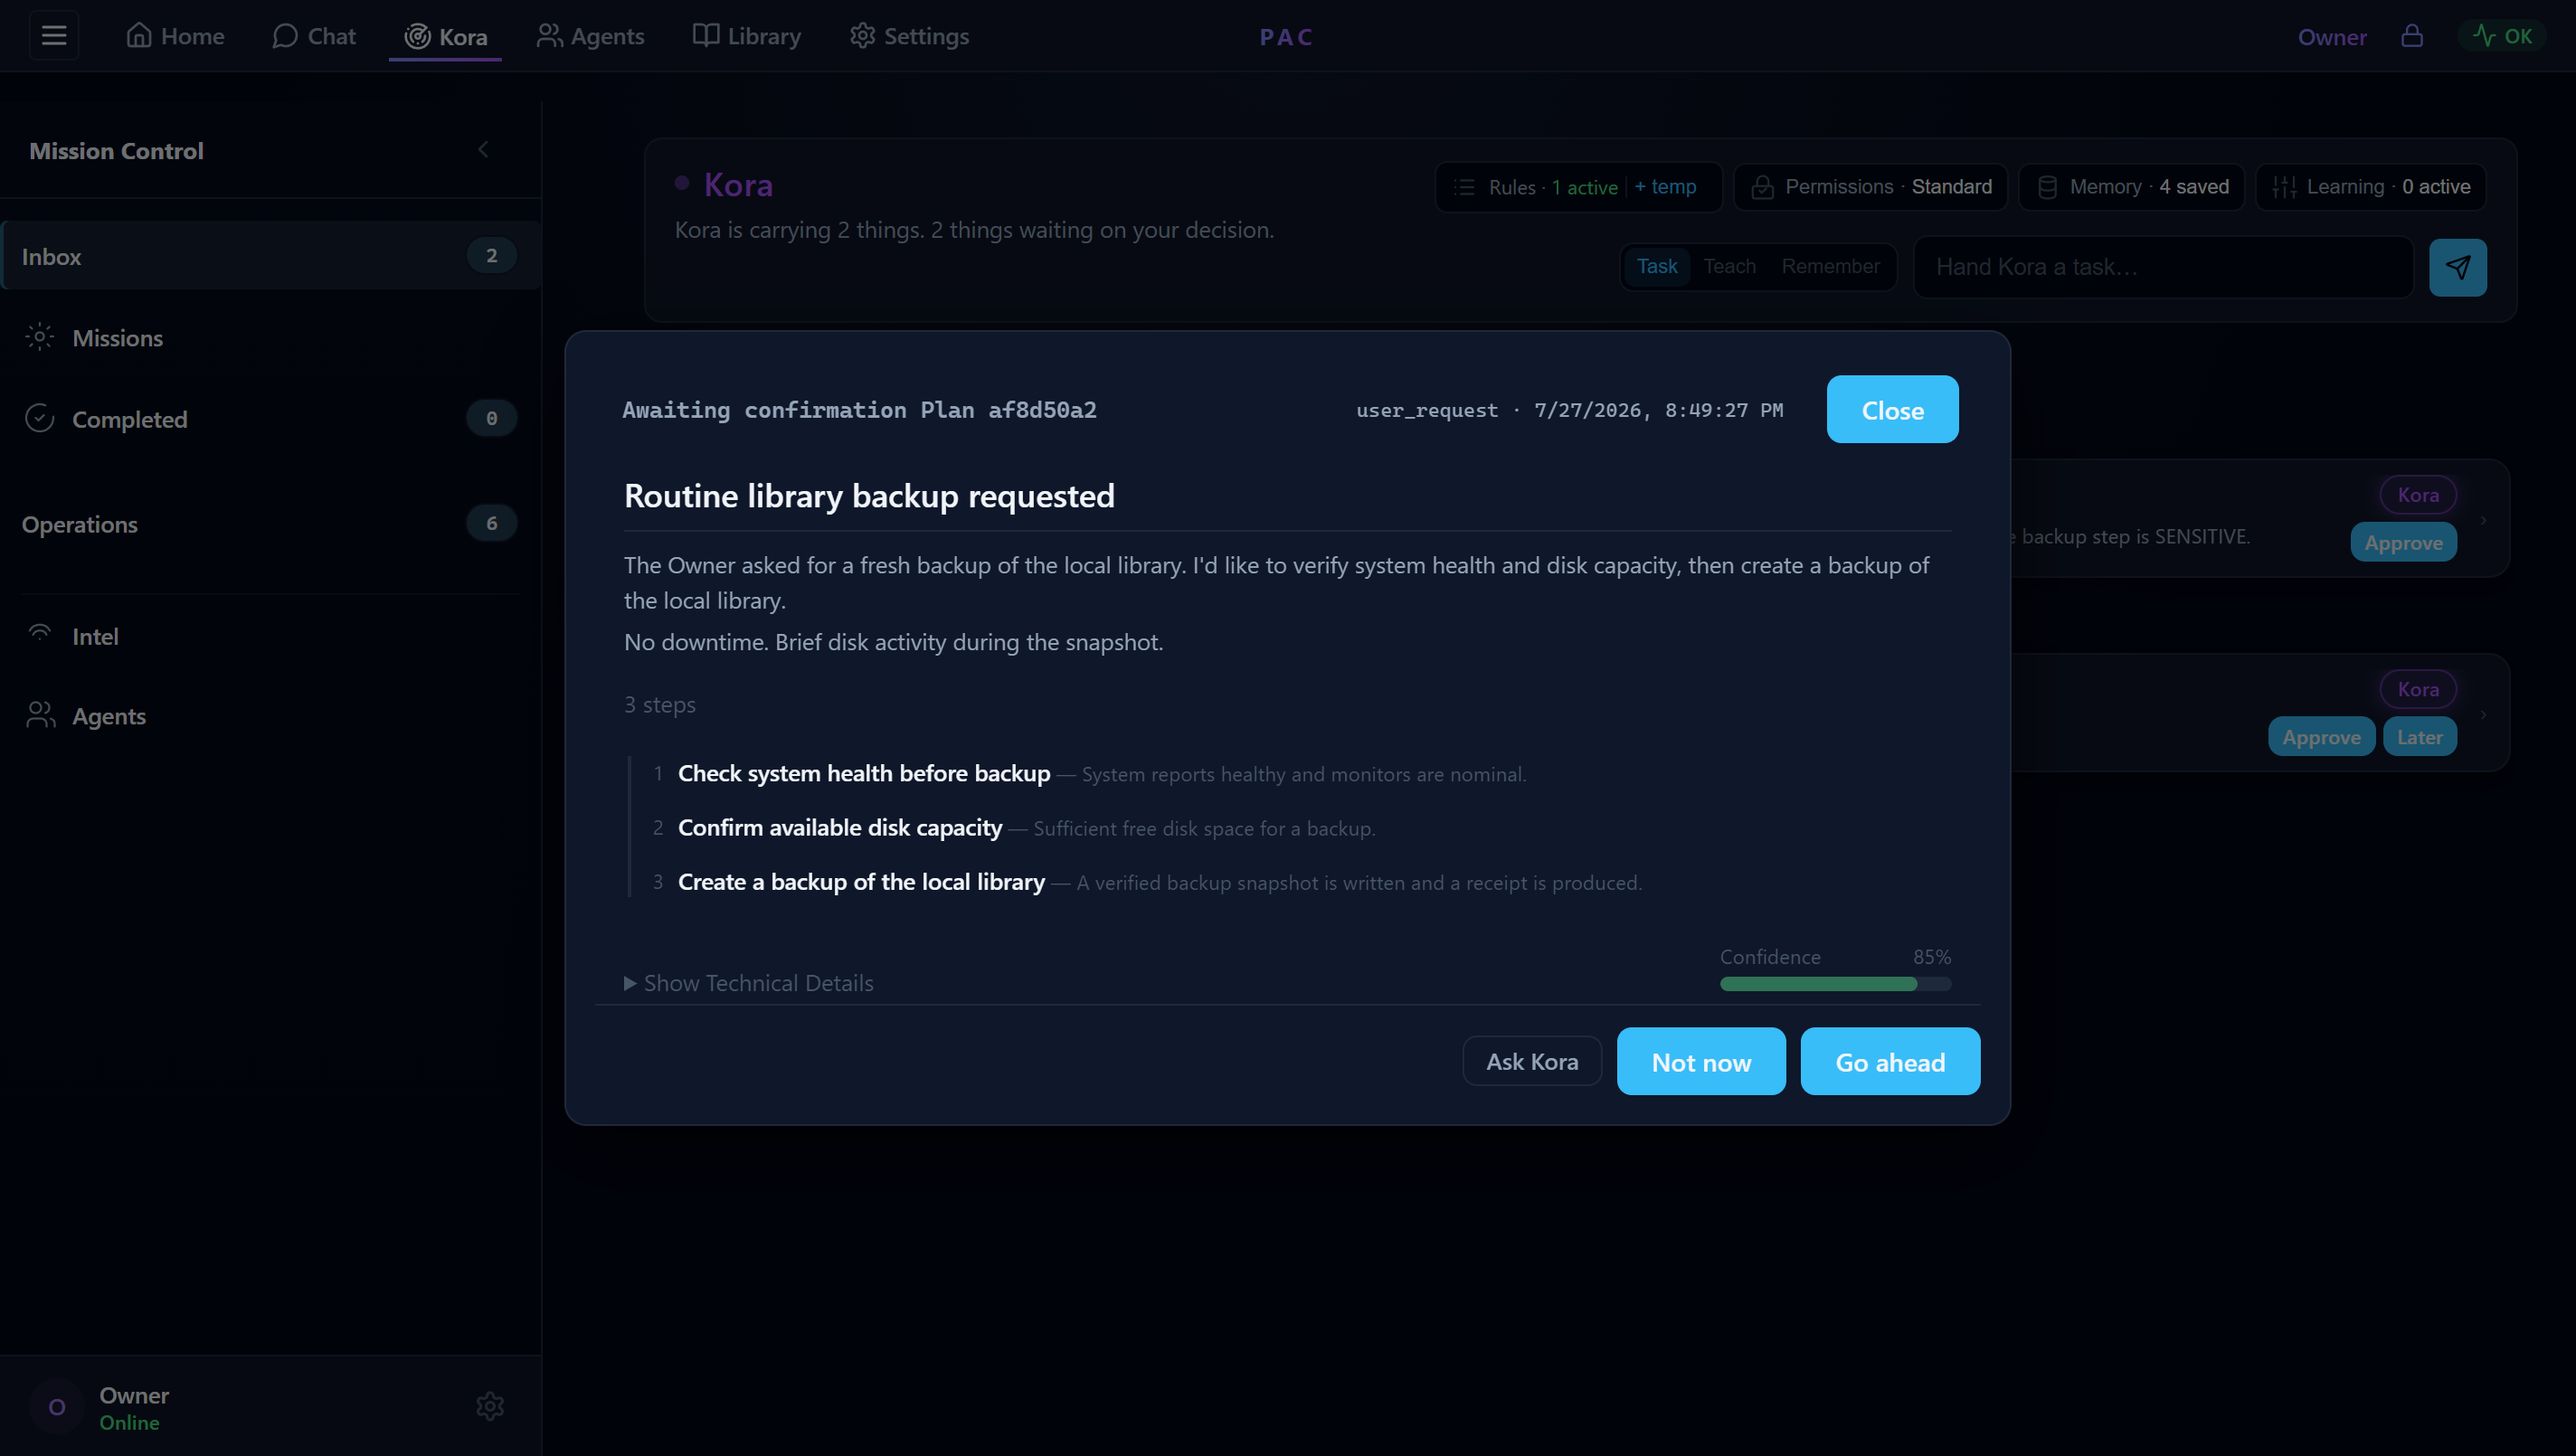
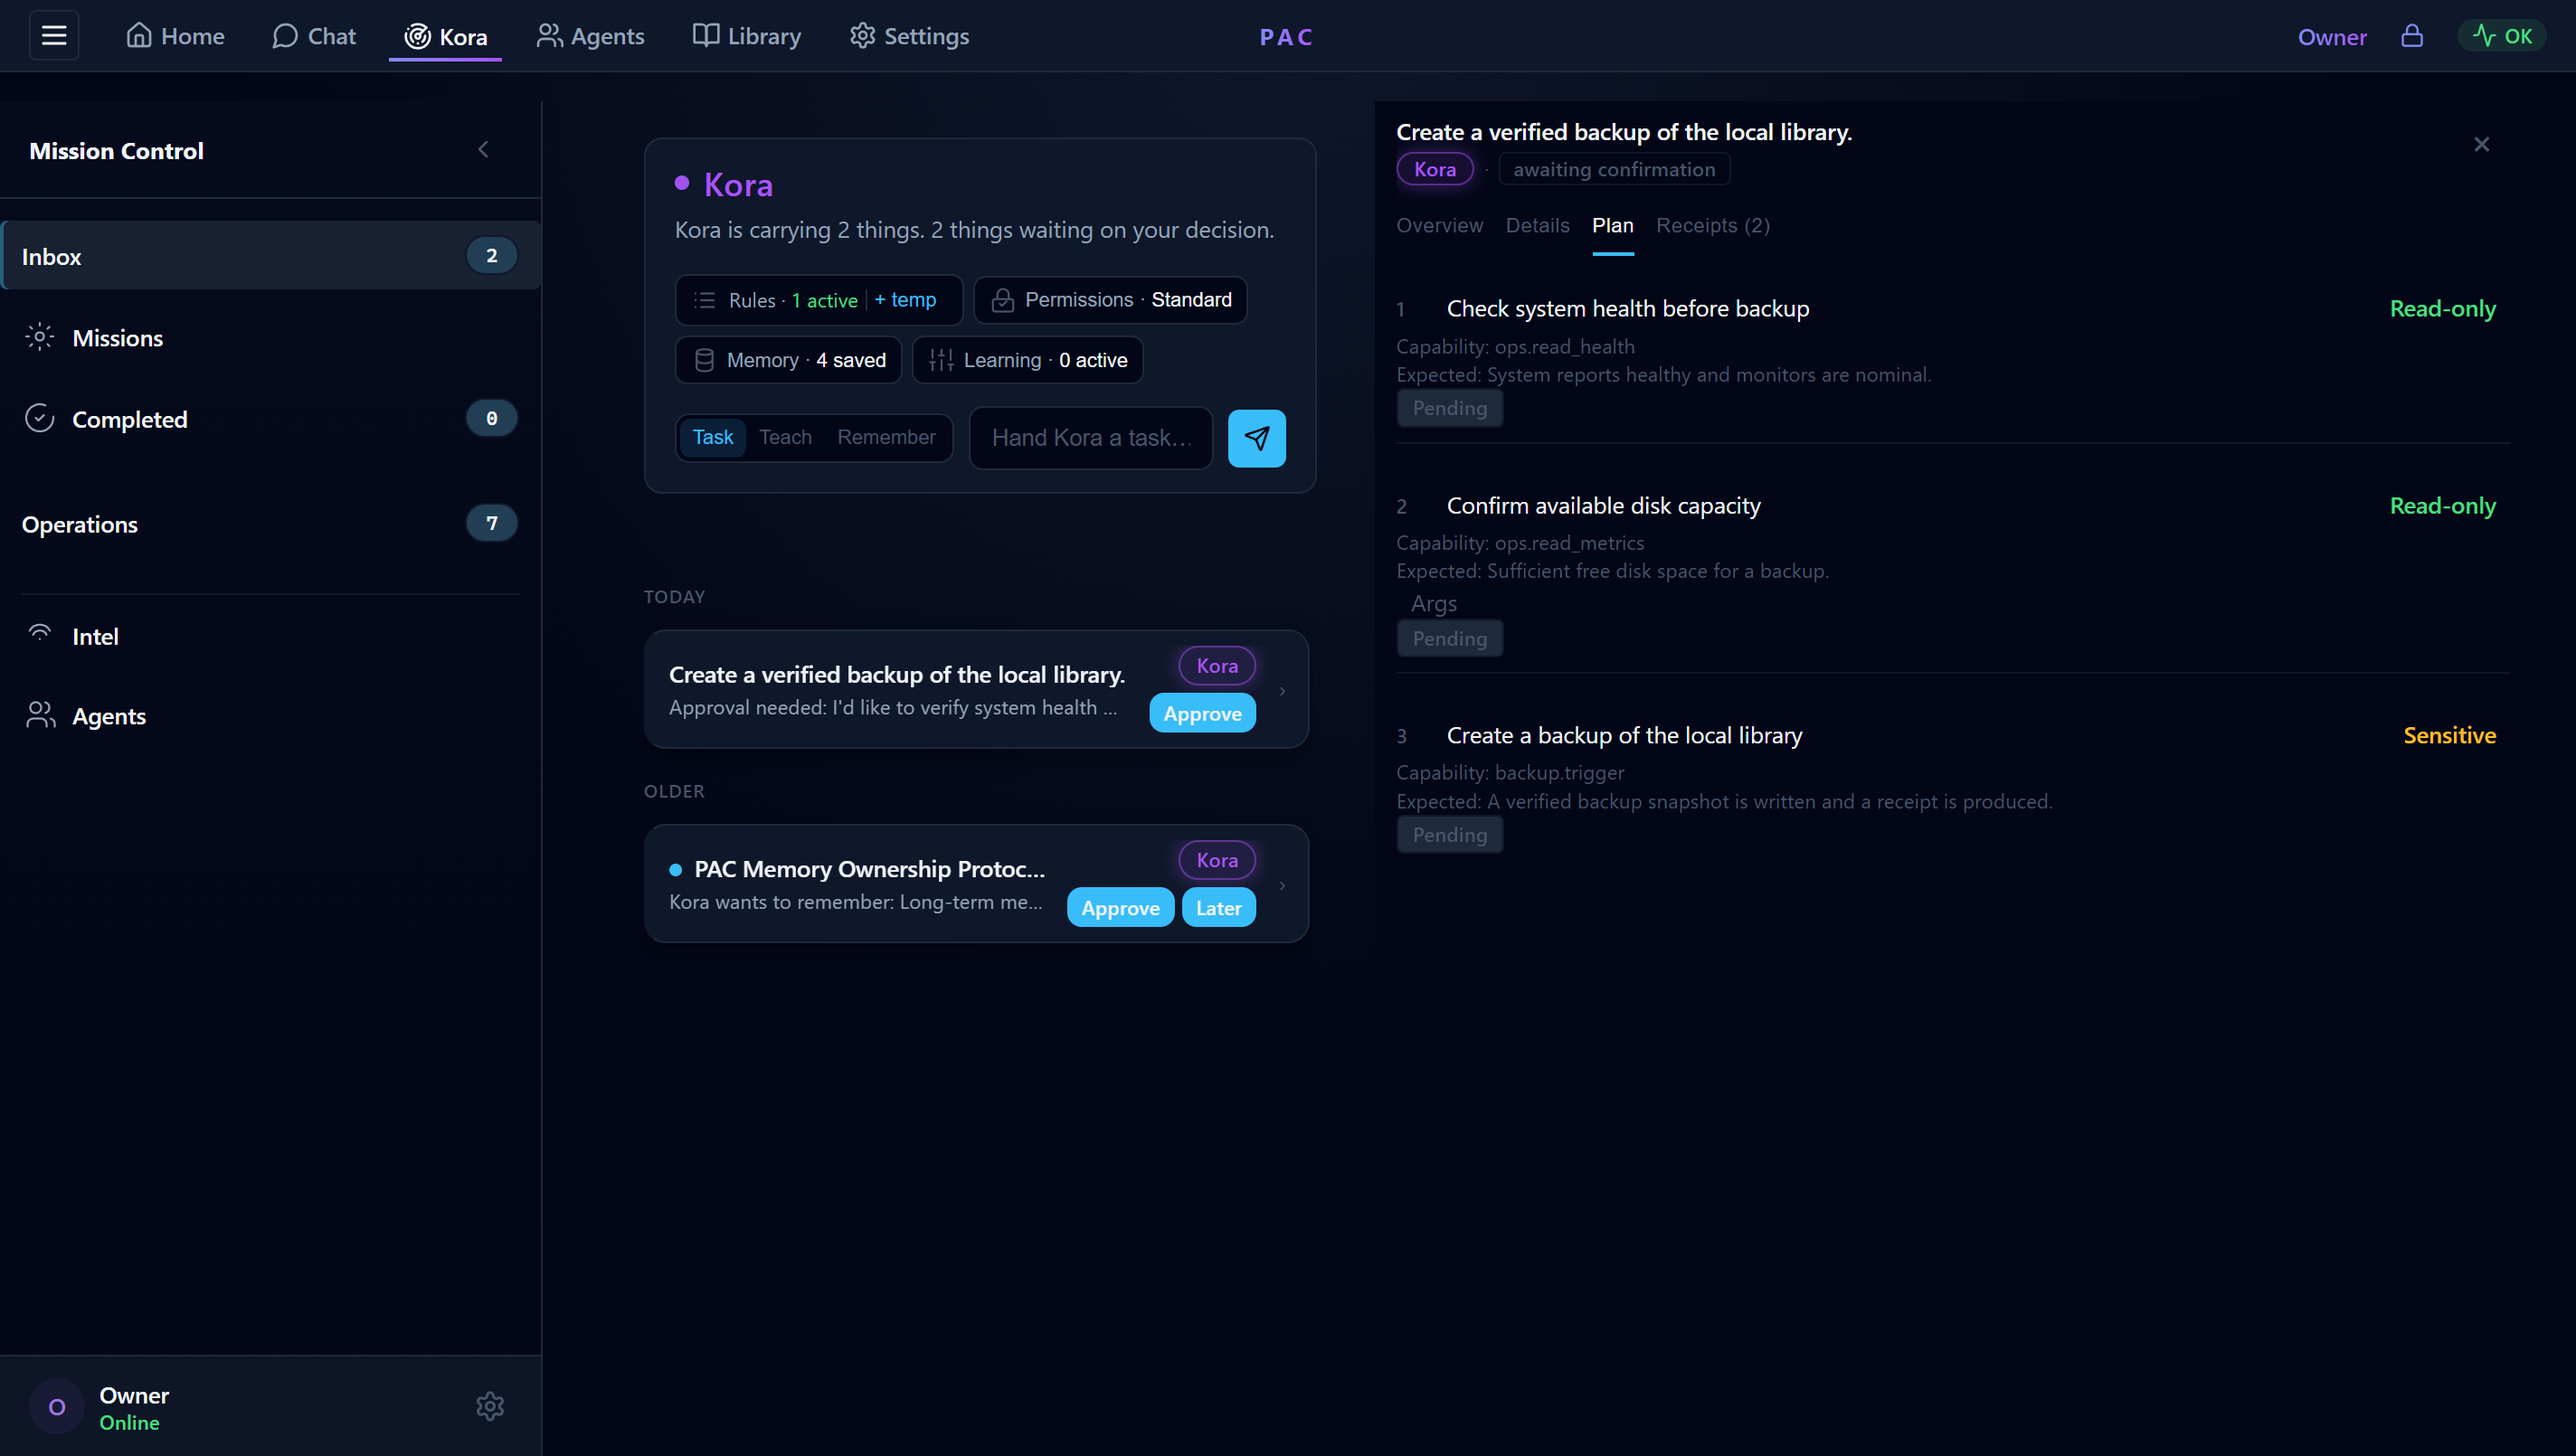
Retire the last legacy-modal screenshots: 01 and 02 recaptured through the inspector rail — tier chips on the plan, the receipt trail on the completed run — with captions, walkthrough, and alt text re-synced to the frames.

diff --git a/demos/demo-walkthrough.md b/demos/demo-walkthrough.md
@@ -20,16 +20,16 @@ Before any work happens, PAC presents its own state: the active local model, cur
 
 ![Plan preview and approval](../assets/screenshots/01-plan-preview.png)
 
-The Owner's request becomes a **plan**, not an immediate action. Kora drafts the steps and presents them *before* anything runs:
+The Owner's request becomes a **plan**, not an immediate action. Kora drafts the steps and presents them in the inspector rail *before* anything runs, each carrying the tier the capability registry assigned it:
 
-1. Check system health before backup &mdash; **SAFE**
-2. Confirm available disk capacity &mdash; **SAFE**
-3. Create a backup of the local library &mdash; **SENSITIVE**
+1. Check system health before backup &mdash; **Read-only**
+2. Confirm available disk capacity &mdash; **Read-only**
+3. Create a backup of the local library &mdash; **Sensitive**
 
 Two things are happening underneath this screen:
 
 - Each step's **tier** comes from PAC's capability registry, not from the model. The model proposes work; it does not get to declare its own work "safe."
-- A deterministic policy evaluation runs over the plan. Because step 3 is **SENSITIVE**, the plan's outcome is *requires confirmation* &mdash; so the plan pauses, awaiting the Owner's **Go ahead / Not now** decision. The read-only checks could run on their own; the consequential step cannot.
+- A deterministic policy evaluation runs over the plan. Because step 3 is **Sensitive**, the plan's outcome is *requires confirmation* &mdash; so the plan pauses as *awaiting confirmation*, and the queue card carries the one verb that can move it: **Approve**. The read-only checks could run on their own; the consequential step cannot.
 
 This is the heart of PAC: the owner sees what was requested, what is proposed, and exactly what will need their say-so &mdash; before it happens.
 
@@ -39,7 +39,7 @@ This is the heart of PAC: the owner sees what was requested, what is proposed, a
 
 ![Action receipt](../assets/screenshots/02-action-receipt.png)
 
-Once the Owner approves, the steps execute and the completed plan carries its evidence. The trace shows each step's capability and a **done** status, and Kora's summary names the gate that just held: *"I verified system health and disk capacity, then executed a backup of the local library after you approved the sensitive step."* The detail line keeps the same shape &mdash; evidence checked *before* the consequential step ran: *"The OS metrics confirmed all monitors were running without failures"* before the backup was triggered. Order matters in PAC: evidence first, action second, receipt after. And the summary stops short of declaring victory &mdash; the *proof* lives in the receipt chain, which is exactly where the specialist mission in [screenshots.md](../docs/screenshots.md) goes to verify this same backup before calling the restore point *provable*.
+Once the Owner approves, the steps execute and the same rail follows the plan to its completed state &mdash; the chip flips to **completed**, and the Receipts tab carries the evidence. The trail reads in the order PAC insists on: the **policy check** first, then the plan's creation, each step's start and finish, and the execution record &mdash; every entry timestamped, attributed to who acted (system, kora, or user), and expandable to its raw form. Kora's own summary of the run names the gate that just held: *"I verified system health and disk capacity, then executed a sensitive backup trigger for the local library after you approved it."* &mdash; and it stops short of declaring victory: the *proof* lives in this receipt chain, which is exactly where the specialist mission in [screenshots.md](../docs/screenshots.md) goes to verify this same backup before calling the restore point *provable*.
 
 As far as PAC is concerned, an action without a receipt didn't happen. The completed view is the receipt: what was planned, what was approved, what ran, and the verification behind it.
 

diff --git a/docs/screenshots.md b/docs/screenshots.md
@@ -12,7 +12,7 @@ For the architecture behind these views, see [architecture.md](architecture.md);
 
 ![Plan preview and approval](../assets/screenshots/01-plan-preview.png)
 
-Before governed work begins, Kora prepares a plan and presents it to the Owner: the goal, the steps she intends to take, and what each step should produce. Nothing sensitive runs on the model's say-so &mdash; the Owner approves, declines, or asks for changes first. Here, a routine "back up the local library" request is paused awaiting the Owner's confirmation.
+Before governed work begins, Kora prepares a plan and presents it in the inspector rail: the goal, the steps she intends to take, what each step should produce, and the capability tier each step runs under. Two steps here are Read-only; the backup step is marked Sensitive, and nothing sensitive runs on the model's say-so. The queue card carries the single Approve verb; the rail carries the full brief. Here, a routine "back up the local library" request is paused awaiting the Owner's confirmation.
 
 ---
 
@@ -20,7 +20,7 @@ Before governed work begins, Kora prepares a plan and presents it to the Owner: 
 
 ![Action receipt](../assets/screenshots/02-action-receipt.png)
 
-After approval, the work executes and leaves evidence behind. The completed plan shows each step, its outcome, and a verification that the work actually happened. As far as the system is concerned, an action without a receipt didn't happen.
+After approval, the work executes and leaves evidence behind. The same rail now shows the plan completed, with its receipt trail: the policy check, the plan's creation, each step's start and finish, and the execution record. Every entry is timestamped, attributed to who acted, and expandable to its raw form. As far as the system is concerned, an action without a receipt didn't happen.
 
 ---
 

diff --git a/README.md b/README.md
@@ -11,7 +11,7 @@ A local-first command center for governed AI. One owner, one machine, in full co
 Plenty of tools show you what an AI is doing. I built Personal A.I. Console (PAC) for the harder half: deciding what an AI is *allowed* to do, and proving what it *did*, on hardware I own. You hand work to a crew that operates under your intent, approve the calls that need you, read the rest as plain-language watch reports, and keep a receipt for every action. A dashboard reports; PAC commands.
 
 <p align="center">
-  <img src="assets/screenshots/01-plan-preview.png" alt="A plan awaiting owner confirmation: three steps, plain-language impact, and an explicit approval gate" width="800">
+  <img src="assets/screenshots/01-plan-preview.png" alt="A plan awaiting owner confirmation in the inspector rail: three steps with capability tiers, the backup step marked Sensitive, and the Approve verb on the queue card" width="800">
 </p>
 <p align="center"><i>A plan parked at the approval gate. The model proposed it; nothing runs until the Owner says so. More in <a href="docs/screenshots.md">docs/screenshots.md</a>.</i></p>
 
